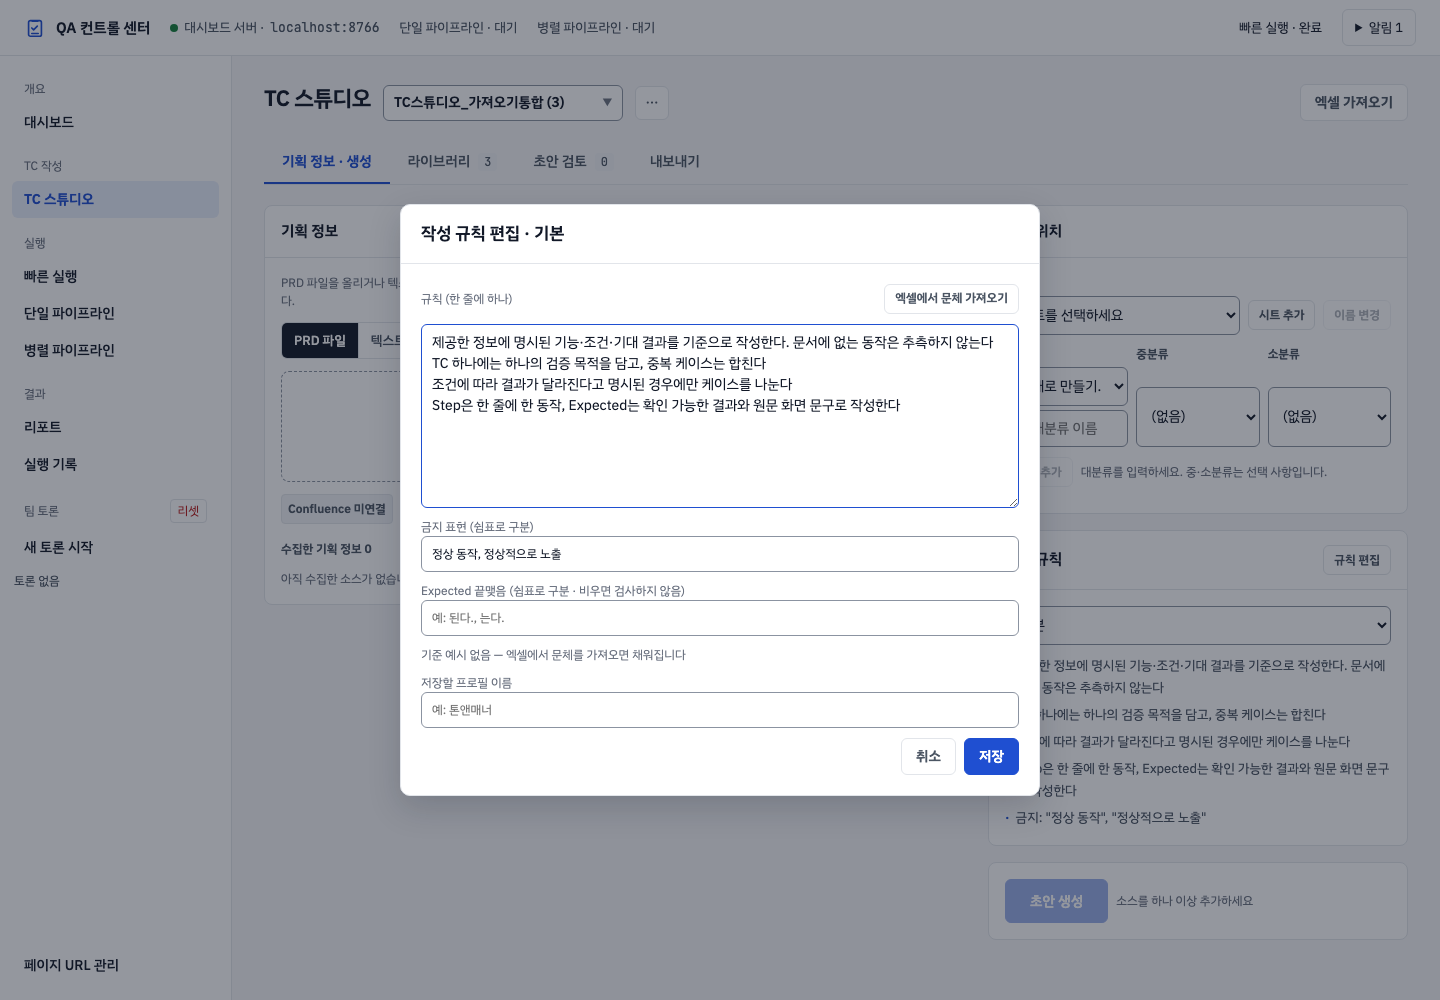
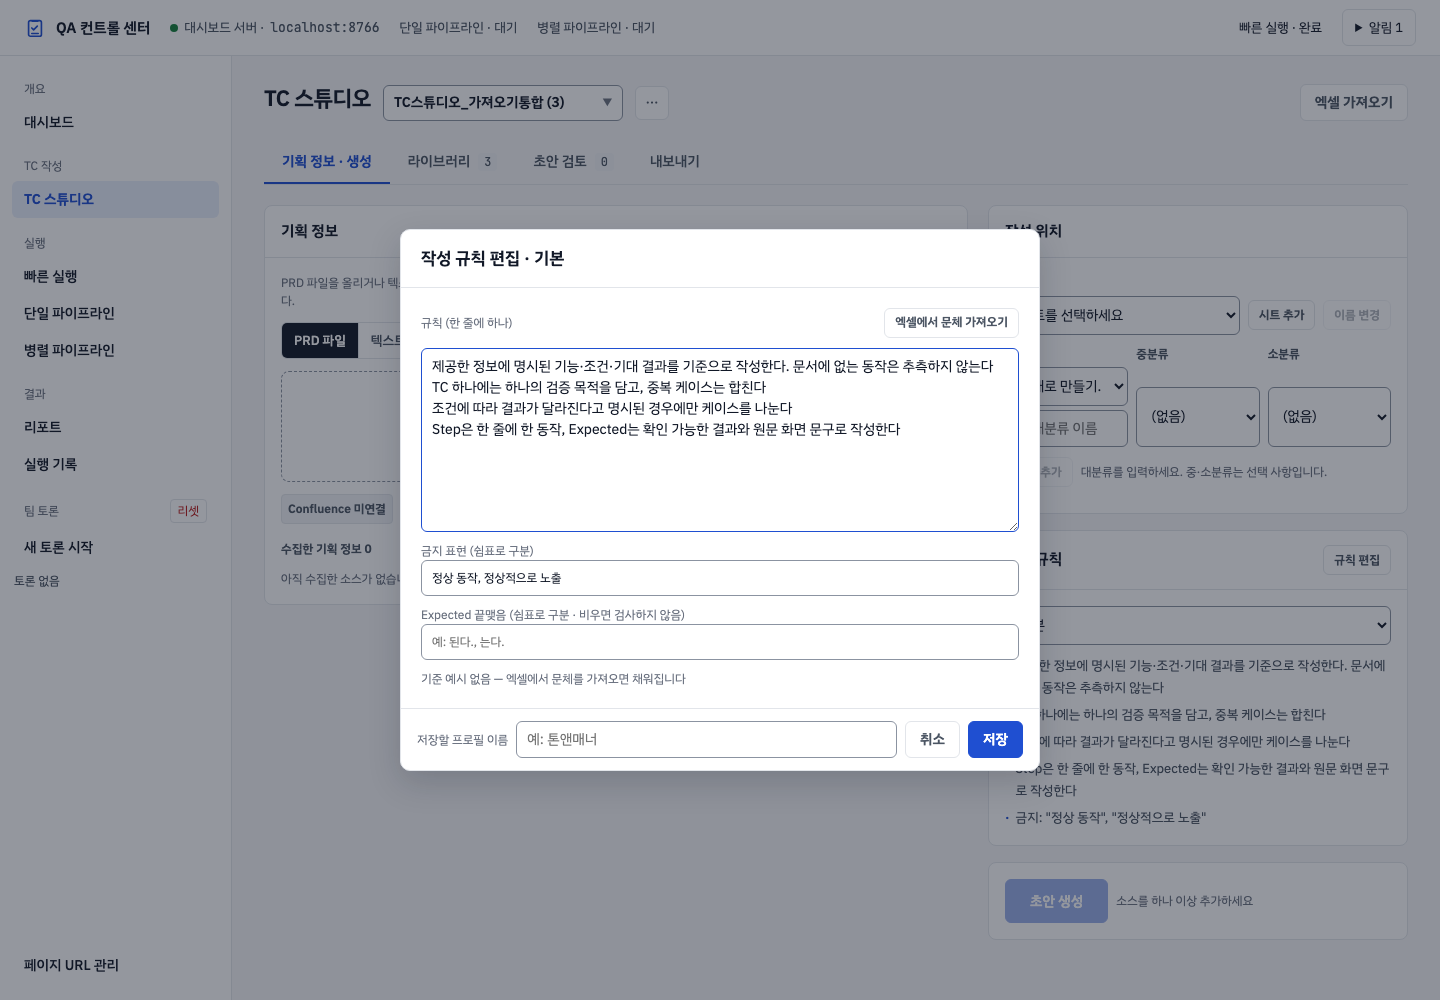
fix(tc-studio): 규칙 편집 팝업의 프로필 이름·저장을 하단에 고정
화면이 낮거나 기준 예시가 있는 프로필이면 이름 칸·저장 버튼이 스크롤 아래로
밀려 보이지 않았다. 본문만 스크롤되고 이름·취소·저장은 항상 보이게 한다.

Changed region(s): [[0.2812, 0.186, 0.7188, 0.434], [0.2812, 0.496, 0.7188, 0.806]]

diff --git a/agents/dashboard/static/js/tc-studio/generate.js b/agents/dashboard/static/js/tc-studio/generate.js
@@ -109,9 +109,9 @@
     </div></div>
   </section>
   <div class="scrim" id="profile-modal" data-id="profile-modal" hidden>
-    <div class="modal" role="dialog" aria-modal="true" aria-labelledby="profile-modal-title" style="width:min(640px,96vw)">
+    <div class="modal" role="dialog" aria-modal="true" aria-labelledby="profile-modal-title" style="width:min(640px,96vw);max-height:90vh;display:flex;flex-direction:column">
       <div class="panel-head" id="profile-modal-title">작성 규칙 편집</div>
-      <div class="panel-body" id="gen-profile-editor" style="display:grid;gap:10px;max-height:min(70vh,640px);overflow:auto">
+      <div class="panel-body" id="gen-profile-editor" style="display:grid;gap:10px;min-height:0;overflow:auto">
         <div class="row"><span class="help">규칙 (한 줄에 하나)</span><span class="spacer"></span>
           <label class="btn-sm" for="gen-style-file" data-id="gen-style-import" title="기존 TC 엑셀의 제목·Step·Expected 말투를 읽어 규칙·끝맺음·기준 예시를 채웁니다">엑셀에서 문체 가져오기</label>
           <input type="file" id="gen-style-file" data-id="gen-style-file" accept=".xlsx" hidden></div>
@@ -119,9 +119,12 @@
         <label class="help">금지 표현 (쉼표로 구분)<input class="input" id="gen-banned-input" data-id="gen-banned-input"></label>
         <label class="help">Expected 끝맺음 (쉼표로 구분 · 비우면 검사하지 않음)<input class="input" id="gen-endings-input" data-id="gen-endings-input" placeholder="예: 된다., 는다."></label>
         <div class="help" id="gen-profile-examples" data-id="gen-profile-examples"></div>
-        <label class="help">저장할 프로필 이름<input class="input" id="gen-profile-name" data-id="gen-profile-name" placeholder="예: 톤앤매너"></label>
-        <div class="row"><span class="spacer"></span><button class="btn btn-ghost" id="gen-profile-cancel" data-id="gen-profile-cancel">취소</button><button class="btn btn-primary" data-id="gen-profile-save" id="gen-profile-save">저장</button></div>
       </div>
+      <!-- 내용이 길어 본문이 스크롤돼도 이름·저장은 항상 보이도록 하단에 고정 -->
+      <div class="row" style="padding:12px 16px;border-top:1px solid var(--border);gap:8px;flex-wrap:wrap">
+        <label class="help" for="gen-profile-name">저장할 프로필 이름</label>
+        <input class="input" id="gen-profile-name" data-id="gen-profile-name" placeholder="예: 톤앤매너" style="flex:1;min-width:160px">
+        <button class="btn btn-ghost" id="gen-profile-cancel" data-id="gen-profile-cancel">취소</button><button class="btn btn-primary" data-id="gen-profile-save" id="gen-profile-save">저장</button></div>
     </div>
   </div>
   <div class="scrim" id="sheet-rename-modal" data-id="sheet-rename-modal" hidden>

diff --git a/doc/guides/tc-studio/TC_AUTHORING_USER_GUIDE.html b/doc/guides/tc-studio/TC_AUTHORING_USER_GUIDE.html
@@ -910,7 +910,7 @@ Excel 가져오기:          엑셀 가져오기 → 라이브러리(가져옴) 
 오류 메시지는 원문의 문구를 그대로 사용한다.
 동일한 기대 결과를 가진 중복 케이스는 만들지 않는다.
 </code></pre>
-<p>저장하려면 <strong>저장할 프로필 이름</strong>을 입력하고 <strong>저장</strong>을 누릅니다. 저장하면 창이 닫힙니다. 저장하지 않고 닫으려면 <strong>취소</strong>, Esc 키, 또는 창 바깥을 누릅니다. 같은 이름으로 저장하면 해당 프로필이 갱신될 수 있습니다. 다른 작업에서도 선택할 수 있는 규칙이므로 특정 기획 내용을 공용 규칙에 섞지 않는 편이 좋습니다.</p>
+<p>저장하려면 창 아래쪽에 고정된 <strong>저장할 프로필 이름</strong>을 입력하고 <strong>저장</strong>을 누릅니다. 저장하면 창이 닫힙니다. 저장하지 않고 닫으려면 <strong>취소</strong>, Esc 키, 또는 창 바깥을 누릅니다. 같은 이름으로 저장하면 해당 프로필이 갱신될 수 있습니다. 다른 작업에서도 선택할 수 있는 규칙이므로 특정 기획 내용을 공용 규칙에 섞지 않는 편이 좋습니다.</p>
 <h4 id="문체톤앤매너-맞추기">문체(톤앤매너) 맞추기</h4>
 <p>LLM은 같은 문장을 매번 똑같이 쓰지 않으므로, 문체는 세 겹으로 맞춥니다.</p>
 <div class="table-wrap"><table>

diff --git a/doc/guides/tc-studio/TC_AUTHORING_USER_GUIDE.md b/doc/guides/tc-studio/TC_AUTHORING_USER_GUIDE.md
@@ -730,7 +730,7 @@ Figma는 디자인 파일 또는 프레임 URL을 넣습니다. 특정 프레임
 동일한 기대 결과를 가진 중복 케이스는 만들지 않는다.
 ```
 
-저장하려면 **저장할 프로필 이름**을 입력하고 **저장**을 누릅니다. 저장하면 창이 닫힙니다. 저장하지 않고 닫으려면 **취소**, Esc 키, 또는 창 바깥을 누릅니다. 같은 이름으로 저장하면 해당 프로필이 갱신될 수 있습니다. 다른 작업에서도 선택할 수 있는 규칙이므로 특정 기획 내용을 공용 규칙에 섞지 않는 편이 좋습니다.
+저장하려면 창 아래쪽에 고정된 **저장할 프로필 이름**을 입력하고 **저장**을 누릅니다. 저장하면 창이 닫힙니다. 저장하지 않고 닫으려면 **취소**, Esc 키, 또는 창 바깥을 누릅니다. 같은 이름으로 저장하면 해당 프로필이 갱신될 수 있습니다. 다른 작업에서도 선택할 수 있는 규칙이므로 특정 기획 내용을 공용 규칙에 섞지 않는 편이 좋습니다.
 
 #### 문체(톤앤매너) 맞추기
 
